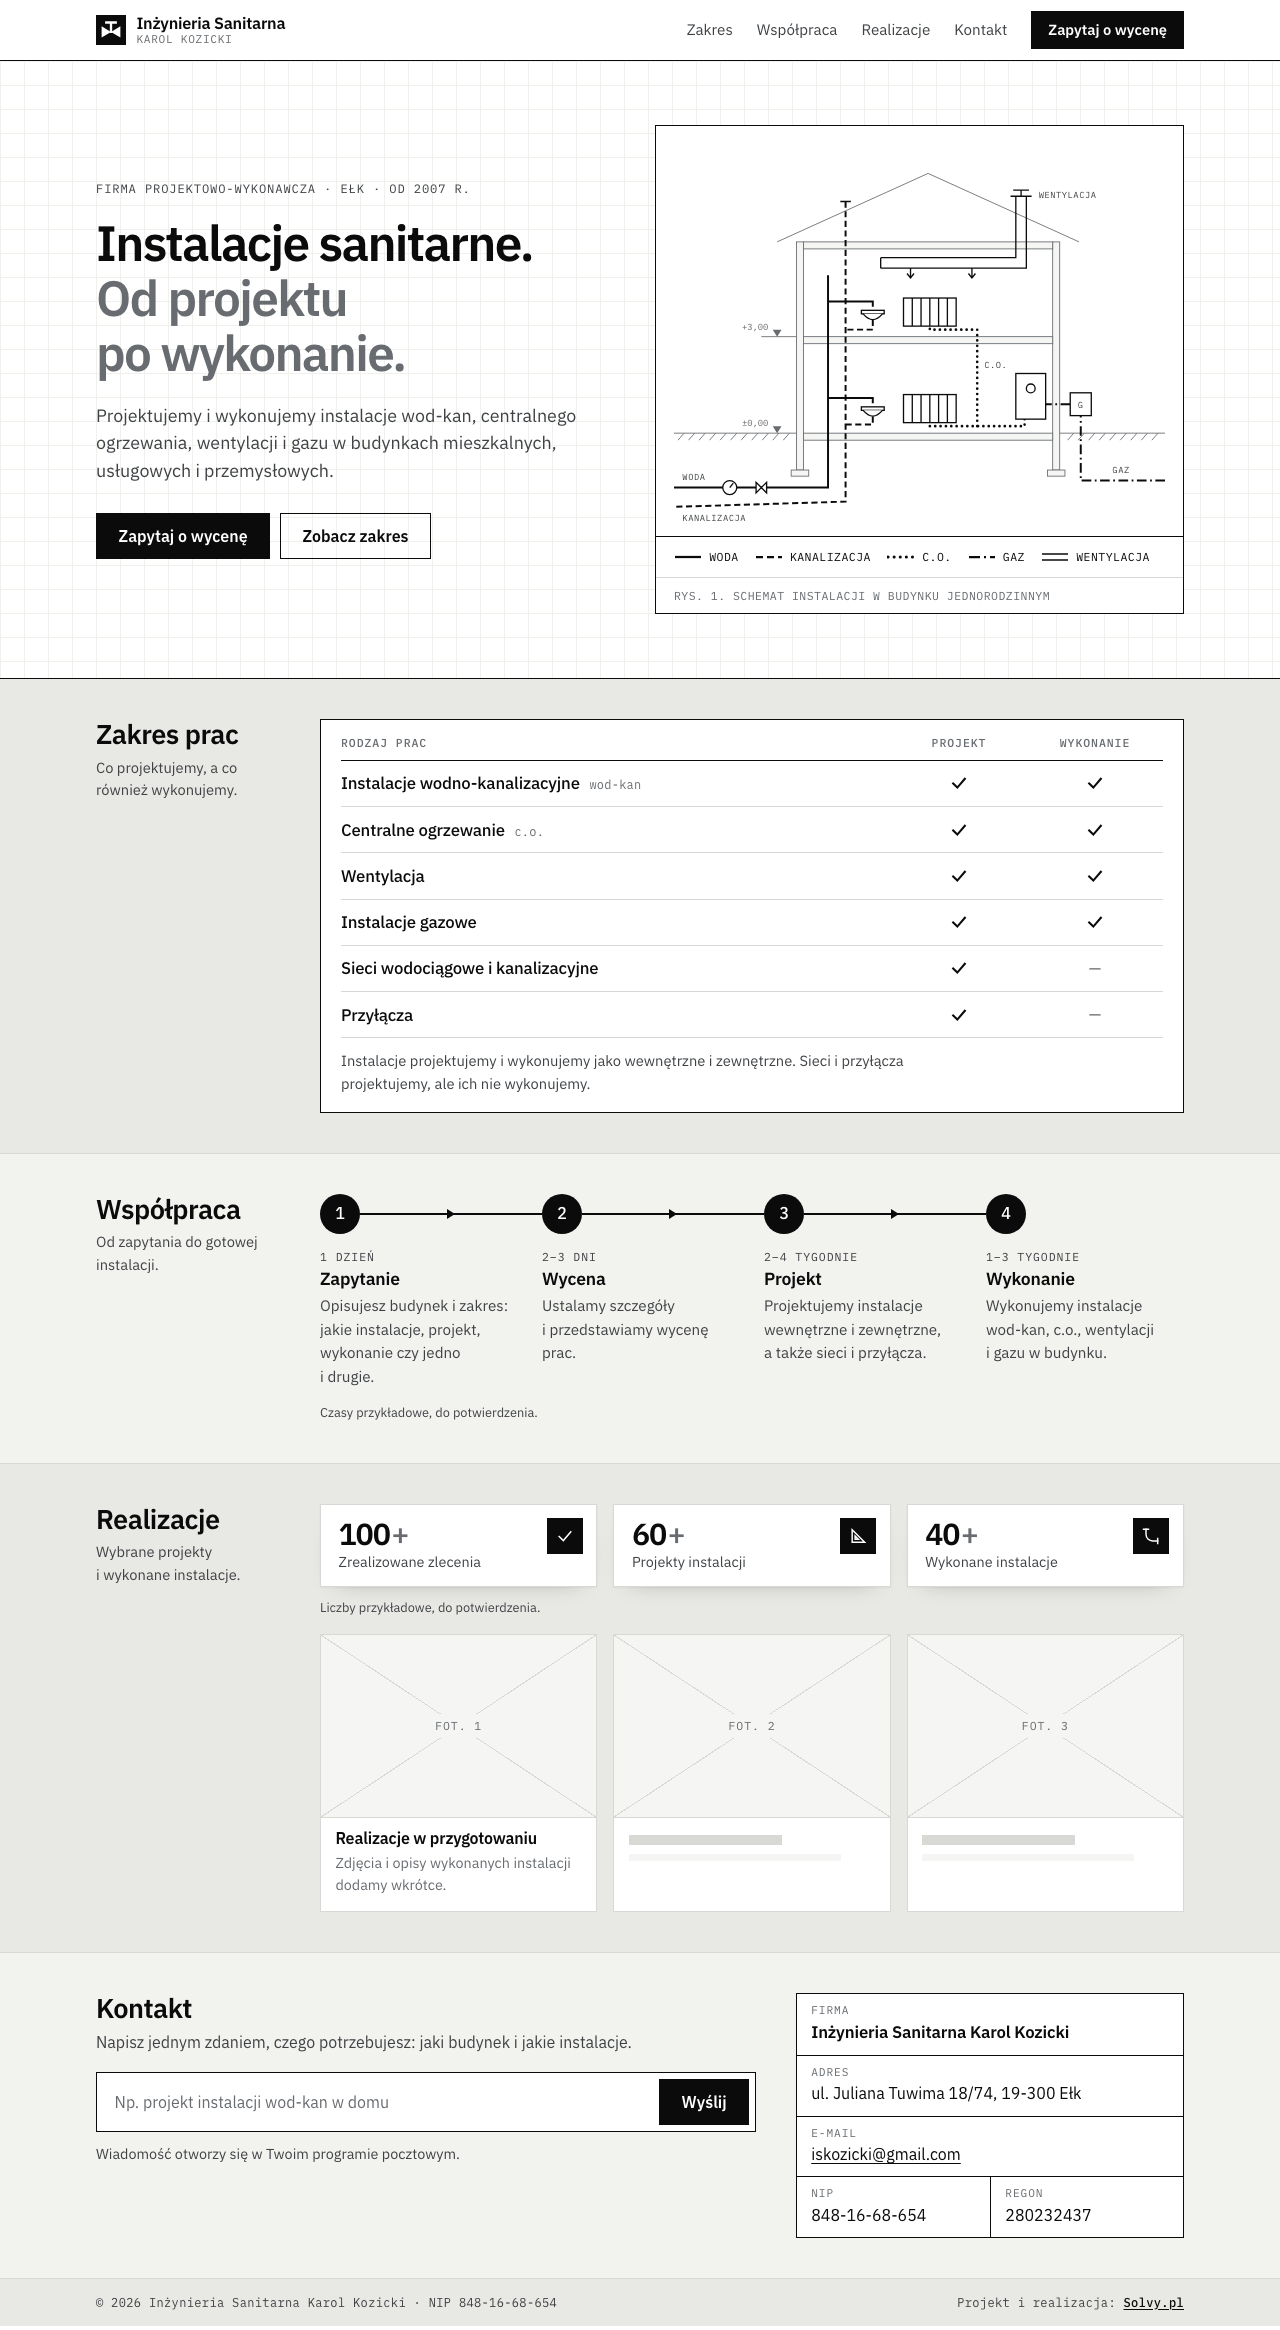
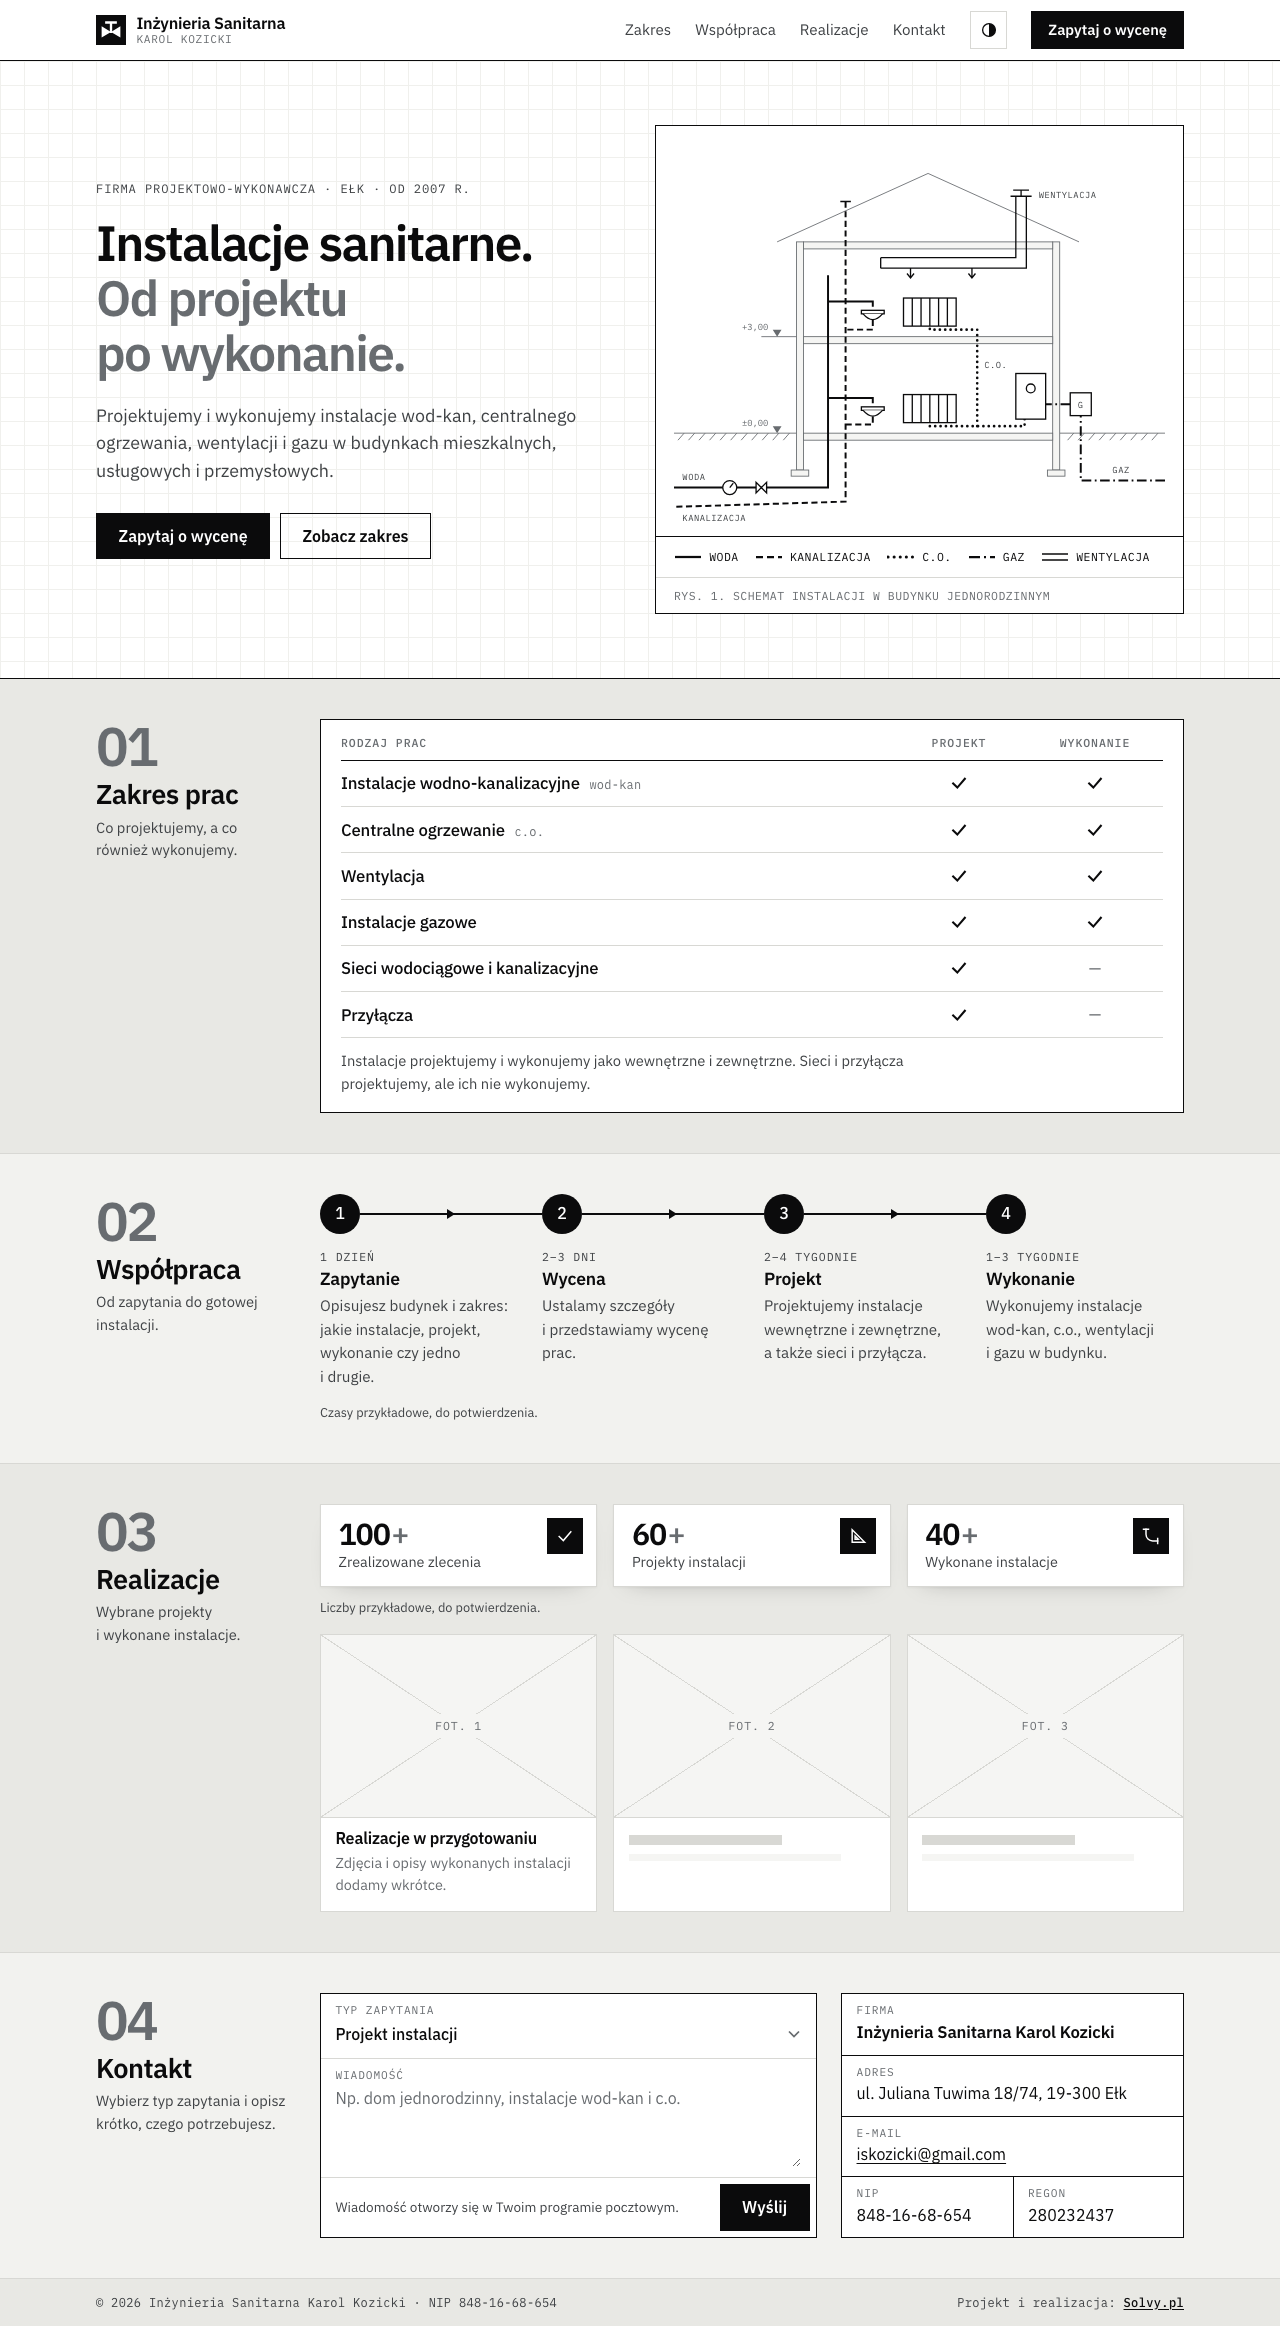
Realizacje na telefonie jako rząd do przesuwania, README bez części technicznej
- na telefonie widać wszystkie ramki realizacji: przesuwa się je w bok
- README: usunięta część techniczna, zaktualizowany opis sekcji i zrzut strony

diff --git a/src/styles/global.css b/src/styles/global.css
@@ -1083,7 +1083,6 @@ img {
 		margin-left: auto;
 	}
 
-	.works,
 	.reach {
 		grid-template-columns: minmax(0, 1fr);
 	}
@@ -1096,9 +1095,30 @@ img {
 		padding-inline: 0.9rem;
 	}
 
-	/* One empty frame is enough on a phone. */
-	.work--spare {
+	/* Realizacje become a row to swipe; the edge of the next card shows there is more. */
+	.works {
+		display: flex;
+		gap: 0.75rem;
+		margin-inline: calc(-1 * var(--gutter));
+		padding-inline: var(--gutter);
+		overflow-x: auto;
+		scroll-snap-type: x mandatory;
+		scroll-padding-inline: var(--gutter);
+		scrollbar-width: none;
+	}
+
+	.works::-webkit-scrollbar {
 		display: none;
+	}
+
+	.work {
+		flex: 0 0 82%;
+		scroll-snap-align: start;
+	}
+
+	/* A single job has nothing to swipe to, so it takes the full width. */
+	.work:only-child {
+		flex-basis: 100%;
 	}
 
 	.facts {

diff --git a/README.md b/README.md
@@ -11,7 +11,7 @@ Strona internetowa i logo dla firmy projektowo-wykonawczej z Ełku. Projekt i re
 
 **Podgląd strony:** https://dmindabrowski.github.io/instalacje-sanitarne-karol-kozicki/
 
-Podgląd odświeża się sam po każdej zmianie wysłanej do tego repozytorium. To wersja robocza: część danych jest przykładowa (lista niżej), a wyszukiwarki jej nie indeksują.
+To wersja robocza do oglądania i uwag: część danych jest jeszcze przykładowa (lista niżej).
 
 ## Klient
 
@@ -33,7 +33,7 @@ Obok znaku stoi nazwa firmy (pismo IBM Plex Sans) i nazwisko właściciela wersa
 
 - **Kolory:** tylko czerń `#0B0B0C`, biel `#FFFFFF` i szarość `#686C70` dla nazwiska. Nie ma koloru firmowego.
 - **Wersje:** logo podstawowe, logo odwrócone na ciemne tło i sam znak do ikon i profili.
-- **Pliki:** SVG do druku i PNG do dokumentów, w katalogu [`logo/`](logo/). Napis jest zamieniony na krzywe, więc do drukarni nie trzeba dołączać fontu.
+- **Pliki:** wersje do druku i do dokumentów są w katalogu [`logo/`](logo/).
 
 Pełny opis logo, z polem ochronnym, najmniejszymi rozmiarami i zasadami użycia: [logo/README.md](logo/README.md). To samo w jednym pliku dla klienta: [księga znaku (PDF, 6 stron)](logo/Inzynieria-Sanitarna-ksiega-znaku.pdf).
 
@@ -44,10 +44,10 @@ Jedna strona, czarno-biała, z motywami rysunku technicznego. Działa na telefon
 - **Nagłówek:** hasło „Instalacje sanitarne. Od projektu po wykonanie." i narysowany dla tej strony przekrój domu z instalacjami. Każda branża ma na nim własny typ linii, jak na prawdziwym rysunku.
 - **Zakres prac:** tabela, która pokazuje, co firma projektuje, a co również wykonuje.
 - **Współpraca:** cztery etapy od zapytania do wykonania instalacji.
-- **Realizacje:** liczby zrealizowanych zleceń i miejsce na zdjęcia.
-- **Kontakt:** pole na jedno zdanie, które otwiera gotową wiadomość e-mail, oraz dane firmy.
+- **Realizacje:** liczby zrealizowanych zleceń i miejsce na zdjęcia; na telefonie zdjęcia przesuwa się palcem.
+- **Kontakt:** krótki formularz z wyborem typu zapytania, który otwiera gotową wiadomość e-mail, oraz dane firmy.
 
-W teście Google Lighthouse z 6 października 2026 r. strona główna uzyskała 100 na 100 punktów w każdej z czterech kategorii: szybkość, dostępność, dobre praktyki i SEO.
+W teście jakości Google (Lighthouse) z 6 października 2026 r. strona główna uzyskała 100 na 100 punktów w każdej z czterech kategorii: szybkość, dostępność, dobre praktyki i widoczność w wyszukiwarkach.
 
 <img src="docs/strona.png" alt="Zrzut całej strony: nagłówek z rysunkiem instalacji, zakres prac, współpraca, realizacje i kontakt" width="720" />
 
@@ -65,7 +65,3 @@ Zanim strona trafi pod docelowy adres, potrzebujemy od klienta:
 Po naszej stronie:
 
 - [ ] Wybór sposobu pokazania statystyk. Cztery warianty do porównania są na [stronie roboczej](https://dmindabrowski.github.io/instalacje-sanitarne-karol-kozicki/warianty/), którą potem usuniemy.
-
-## Dla osób technicznych
-
-Strona jest zbudowana w Astro. Podgląd lokalny: `npm install`, potem `npm run dev` (adres http://localhost:4323). Opis plików i zasady wprowadzania zmian są w [AGENTS.md](AGENTS.md). Fonty IBM Plex Sans i IBM Plex Mono są na licencji SIL Open Font License 1.1.

diff --git a/AGENTS.md b/AGENTS.md
@@ -14,7 +14,8 @@ Strona firmowa klienta: Inżynieria Sanitarna Karol Kozicki (Ełk), firma projek
 - `src/pages/index.astro`: treść strony, sekcja po sekcji.
 - `src/components/Schemat.astro`: rysunek instalacji w nagłówku strony. Zaakceptowany przez właściciela, nie zmieniaj go bez wyraźnej prośby.
 - `logo/`: logo i znak firmy (SVG i PNG, wersja czarna i odwrócona), podgląd w `logo/podglad.html`, opis logo i zasady użycia w `logo/README.md`, księga znaku dla klienta w `logo/Inzynieria-Sanitarna-ksiega-znaku.pdf` (źródło: `logo/ksiega-znaku.html`). Te pliki nie trafiają na stronę.
-- `README.md` i `docs/`: opis projektu dla właściciela i klienta (bez szczegółów technicznych) oraz obrazki do niego.
+- `README.md` i `docs/`: opis projektu dla właściciela i klienta oraz obrazki do niego. Bez informacji technicznych: te trzymamy w tym pliku.
+- Uruchomienie lokalne: `npm install`, potem `npm run dev` (http://localhost:4323). Fonty IBM Plex Sans i IBM Plex Mono: licencja SIL Open Font License 1.1 (`public/fonts/LICENSE.txt`).
 - `.github/workflows/pages.yml`: po każdym wypchnięciu na `main` buduje stronę i publikuje podgląd na GitHub Pages (https://dmindabrowski.github.io/instalacje-sanitarne-karol-kozicki/). Podgląd leży w podkatalogu, dlatego odnośniki w `Layout.astro` zaczynają się od `base`; nie wpisuj ścieżek od `/` na sztywno.
 - `src/styles/global.css`: wszystkie style, kolory w zmiennych CSS na górze pliku.
 - `public/`: pliki kopiowane bez zmian (favicon, fonty, obrazek do udostępniania).
@@ -27,7 +28,7 @@ Strona firmowa klienta: Inżynieria Sanitarna Karol Kozicki (Ełk), firma projek
 - Każda sekcja ma ten sam układ: w lewej kolumnie duży szary numer (01–04), pod nim tytuł i jedno zdanie opisu, reszta kolumny pusta; treść po prawej.
 - Kontakt: formularz (typ zapytania z listy, pole wiadomości, przycisk „Wyślij"), który otwiera gotowy e-mail z typem w temacie; obok dane firmy w tabelce rysunkowej. Lista typów jest w `src/data/zakres.json` (`typyZapytan`).
 - Sekcja „Współpraca" (kropki z numerami połączone linią) jest wzorowana na solvy-www.
-- Zakres prac zostaje tabelą „Projekt / Wykonanie", realizacje trzema równymi ramkami.
+- Zakres prac zostaje tabelą „Projekt / Wykonanie", realizacje trzema równymi ramkami; na telefonie ramki są rzędem do przesuwania palcem.
 - Dane kontaktowe i zakres prac zmieniaj tylko w `src/data/`. Nie wpisuj ich na sztywno w stronie.
 - Firma projektuje sieci i przyłącza, ale ich nie wykonuje. Żaden tekst nie może sugerować inaczej.
 - Treści pisz po polsku, rzeczowo, w tonie pozostałych tekstów na stronie. Nie dopisuj faktów o firmie (uprawnień, liczby realizacji, obszaru działania), których nie ma w zgłoszeniu ani na stronie.
